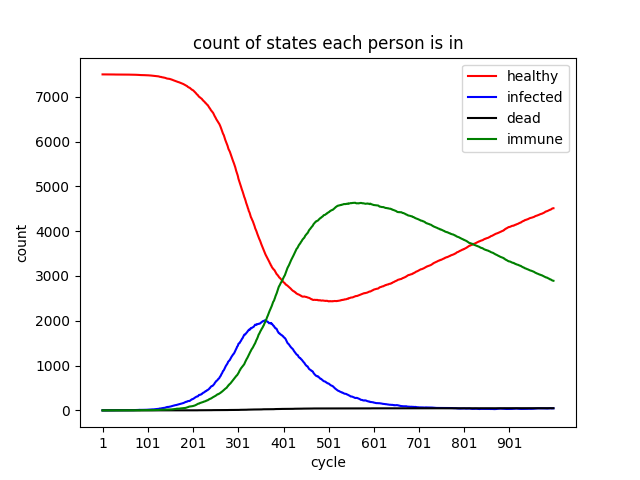
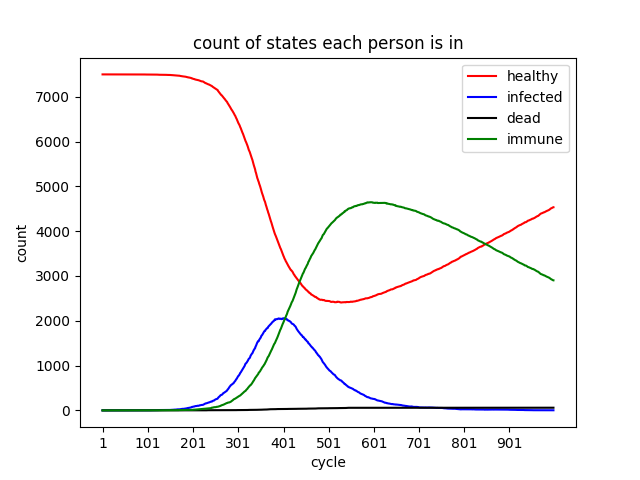
working intervention

diff --git a/simulation/simulator.py b/simulation/simulator.py
@@ -80,11 +80,11 @@ class Simulator():
             return
         elif self.intervention_type == 'NULL_MODEL':
             for person in self.person_list:
-                person.antisocial == True
+                person.antisocial = True
         elif self.intervention_type == 'OPTIMIZED':
-            top_100 = sorted(list(global_state.covid_graph.degree), key=lambda x: x[1])[:100]
-            for person, _ in top_100:
-                self.person_dict[person].antisocial = True
+            top_n = sorted(list(global_state.covid_graph.degree), key=lambda x: x[1])[:1000]
+            for person, _ in top_n:
+                self.person_dict[person].removed = True
 
     def ease_social_intervention(self):
         if self.intervention_type == 'NONE':
@@ -92,11 +92,11 @@ class Simulator():
             return
         elif self.intervention_type == 'NULL_MODEL':
             for person in self.person_list:
-                person.antisocial == False
+                person.antisocial = False
         elif self.intervention_type == 'OPTIMIZED':
-            top_100 = sorted(list(global_state.covid_graph.degree), key=lambda x: x[1])[:100]
-            for person, _ in top_100:
-                self.person_dict[person].antisocial = False
+            top_n = sorted(list(global_state.covid_graph.degree), key=lambda x: x[1])[:1000]
+            for person, _ in top_n:
+                self.person_dict[person].removed = False
 
 
 

diff --git a/simulation/person.py b/simulation/person.py
@@ -18,6 +18,7 @@ class Person():
         self.healthy_after_date = -1
         self.not_immune_after = -1
         self.antisocial = False
+        self.removed = False
         self.current_state = 'HEALTHY'
         self.future_state = 'HEALTHY'
 
@@ -25,6 +26,7 @@ class Person():
         self.healthy_after_date = -1
         self.not_immune_after = -1
         self.antisocial = False
+        self.removed = False
         self.current_state = 'HEALTHY'
         self.future_state = 'HEALTHY'
 
@@ -41,7 +43,12 @@ class Person():
                 return
             neighbor_list = [global_state.covid_graph.nodes[x]['value'] for x in global_state.covid_graph.neighbors(self.name)]
             for neighbor in neighbor_list:
-                if random.random() < (self.sociability if not self.antisocial else self.sociability / 10):
+                threshold = self.sociability
+                if self.antisocial:
+                    threshold = self.sociability * 0.75
+                elif self.removed:
+                    threshold = 0
+                if random.random() < threshold:
                     self.roll_to_infect(neighbor)
 
 

diff --git a/main.py b/main.py
@@ -14,6 +14,8 @@ def main():
     print(len(max(networkx.connected_components(covid_graph.flat_graph), key=len)))
     key = list(covid_graph.flat_graph.nodes)[0]
 
+    degrees = [val for name, val in covid_graph.flat_graph.degree]
+
 
     simulator = Simulator(covid_graph.flat_graph)
     seed = 174398573985
